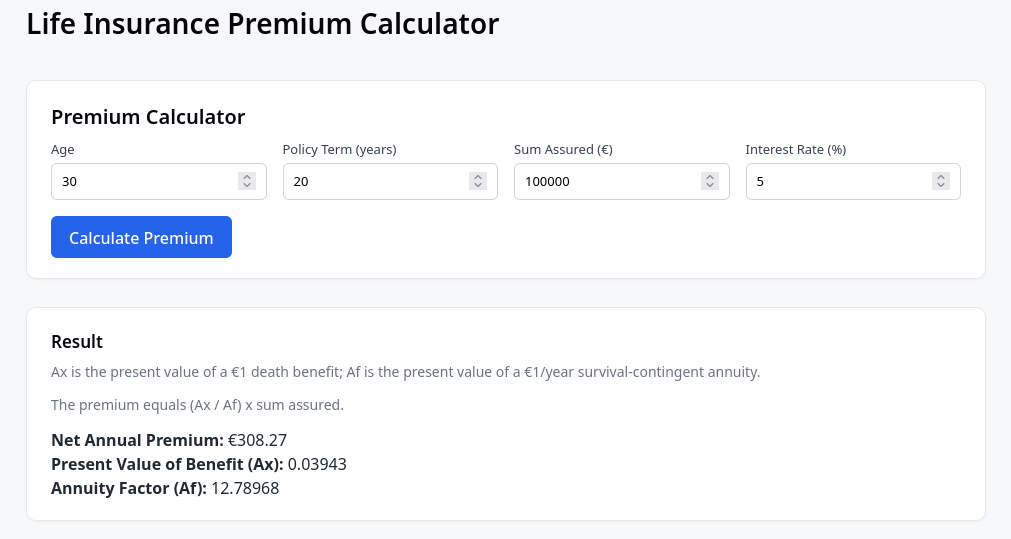
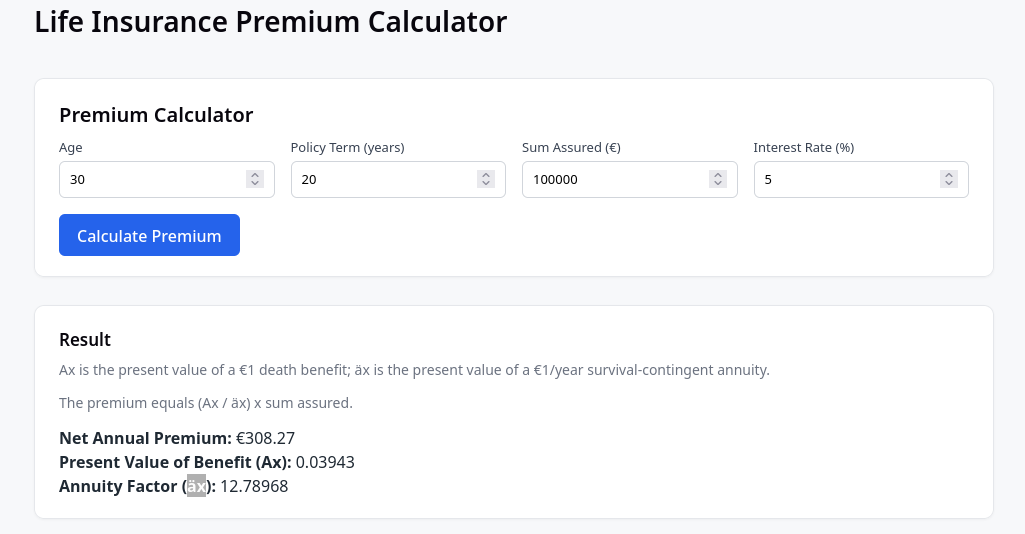
updated Annuity Factor symbol

diff --git a/backend/src/premium/premium.service.ts b/backend/src/premium/premium.service.ts
@@ -31,10 +31,10 @@ export class PremiumService {
   }
 
   /**
-   * Calculate Af — present value of an annuity-due of €1/year
+   * Calculate äx — present value of an annuity-due of €1/year
    * for n years on a life aged x.
    *
-   * Formula: Af = Σ (t=0 to n-1) v^t * tPx
+   * Formula: äx = Σ (t=0 to n-1) v^t * tPx
    */
   calculateAnnuityDue(age: number, term: number, interestRate: number): number {
     const v = 1 / (1 + interestRate);
@@ -52,7 +52,7 @@ export class PremiumService {
   /**
    * Calculate the net level annual premium.
    *
-   * Premium = (Ax / Af) × Sum Assured
+   * Premium = (Ax / äx) × Sum Assured
    */
   calculateNetPremium(
     age: number,

diff --git a/frontend/src/components/PremiumResult.tsx b/frontend/src/components/PremiumResult.tsx
@@ -12,14 +12,14 @@ export function PremiumResult({ result }: Props) {
     <div className="card">
       <h3>Result</h3>
       <p className="section-hint">
-        Ax is the present value of a €1 death benefit; Af is the present value of a €1/year survival-contingent annuity.
+        Ax is the present value of a €1 death benefit; äx is the present value of a €1/year survival-contingent annuity.
       </p>
       <p className="section-hint">
-         The premium equals (Ax / Af) x sum assured.
+         The premium equals (Ax / äx) x sum assured.
       </p>
       <p><strong>Net Annual Premium:</strong> €{result.netAnnualPremium.toLocaleString()}</p>
       <p><strong>Present Value of Benefit (Ax):</strong> {result.ax.toFixed(5)}</p>
-      <p><strong>Annuity Factor (Af):</strong> {result.annuityDue.toFixed(5)}</p>
+      <p><strong>Annuity Factor (äx):</strong> {result.annuityDue.toFixed(5)}</p>
     </div>
   );
 }

diff --git a/README.md b/README.md
@@ -67,8 +67,8 @@ Open <http://localhost:5173>. The premium and sensitivity charts work without th
 | **qx** | Probability that a person aged x dies before reaching age x+1. |
 | **lx** | Number of survivors at age x out of an initial cohort (100,000). |
 | **Ax** | Net single premium — present value of a €1 death benefit over an n-year term. |
-| **Af** | Annuity-due — present value of a €1/year survival-contingent annuity. |
-| **Net level premium** | P = (Ax / Af) × Sum Assured. Annual premium that makes the policy actuarially fair. |
+| **äx** | Annuity-due — present value of a €1/year survival-contingent annuity. |
+| **Net level premium** | P = (Ax / äx) × Sum Assured. Annual premium that makes the policy actuarially fair. |
 
 Mortality data is the US SSA period life table (both sexes, kept side-by-side in `data/american-life-table.csv`); the backend loader accepts either that wide schema or the standard `age,qx,lx,dx,ex` form.
 